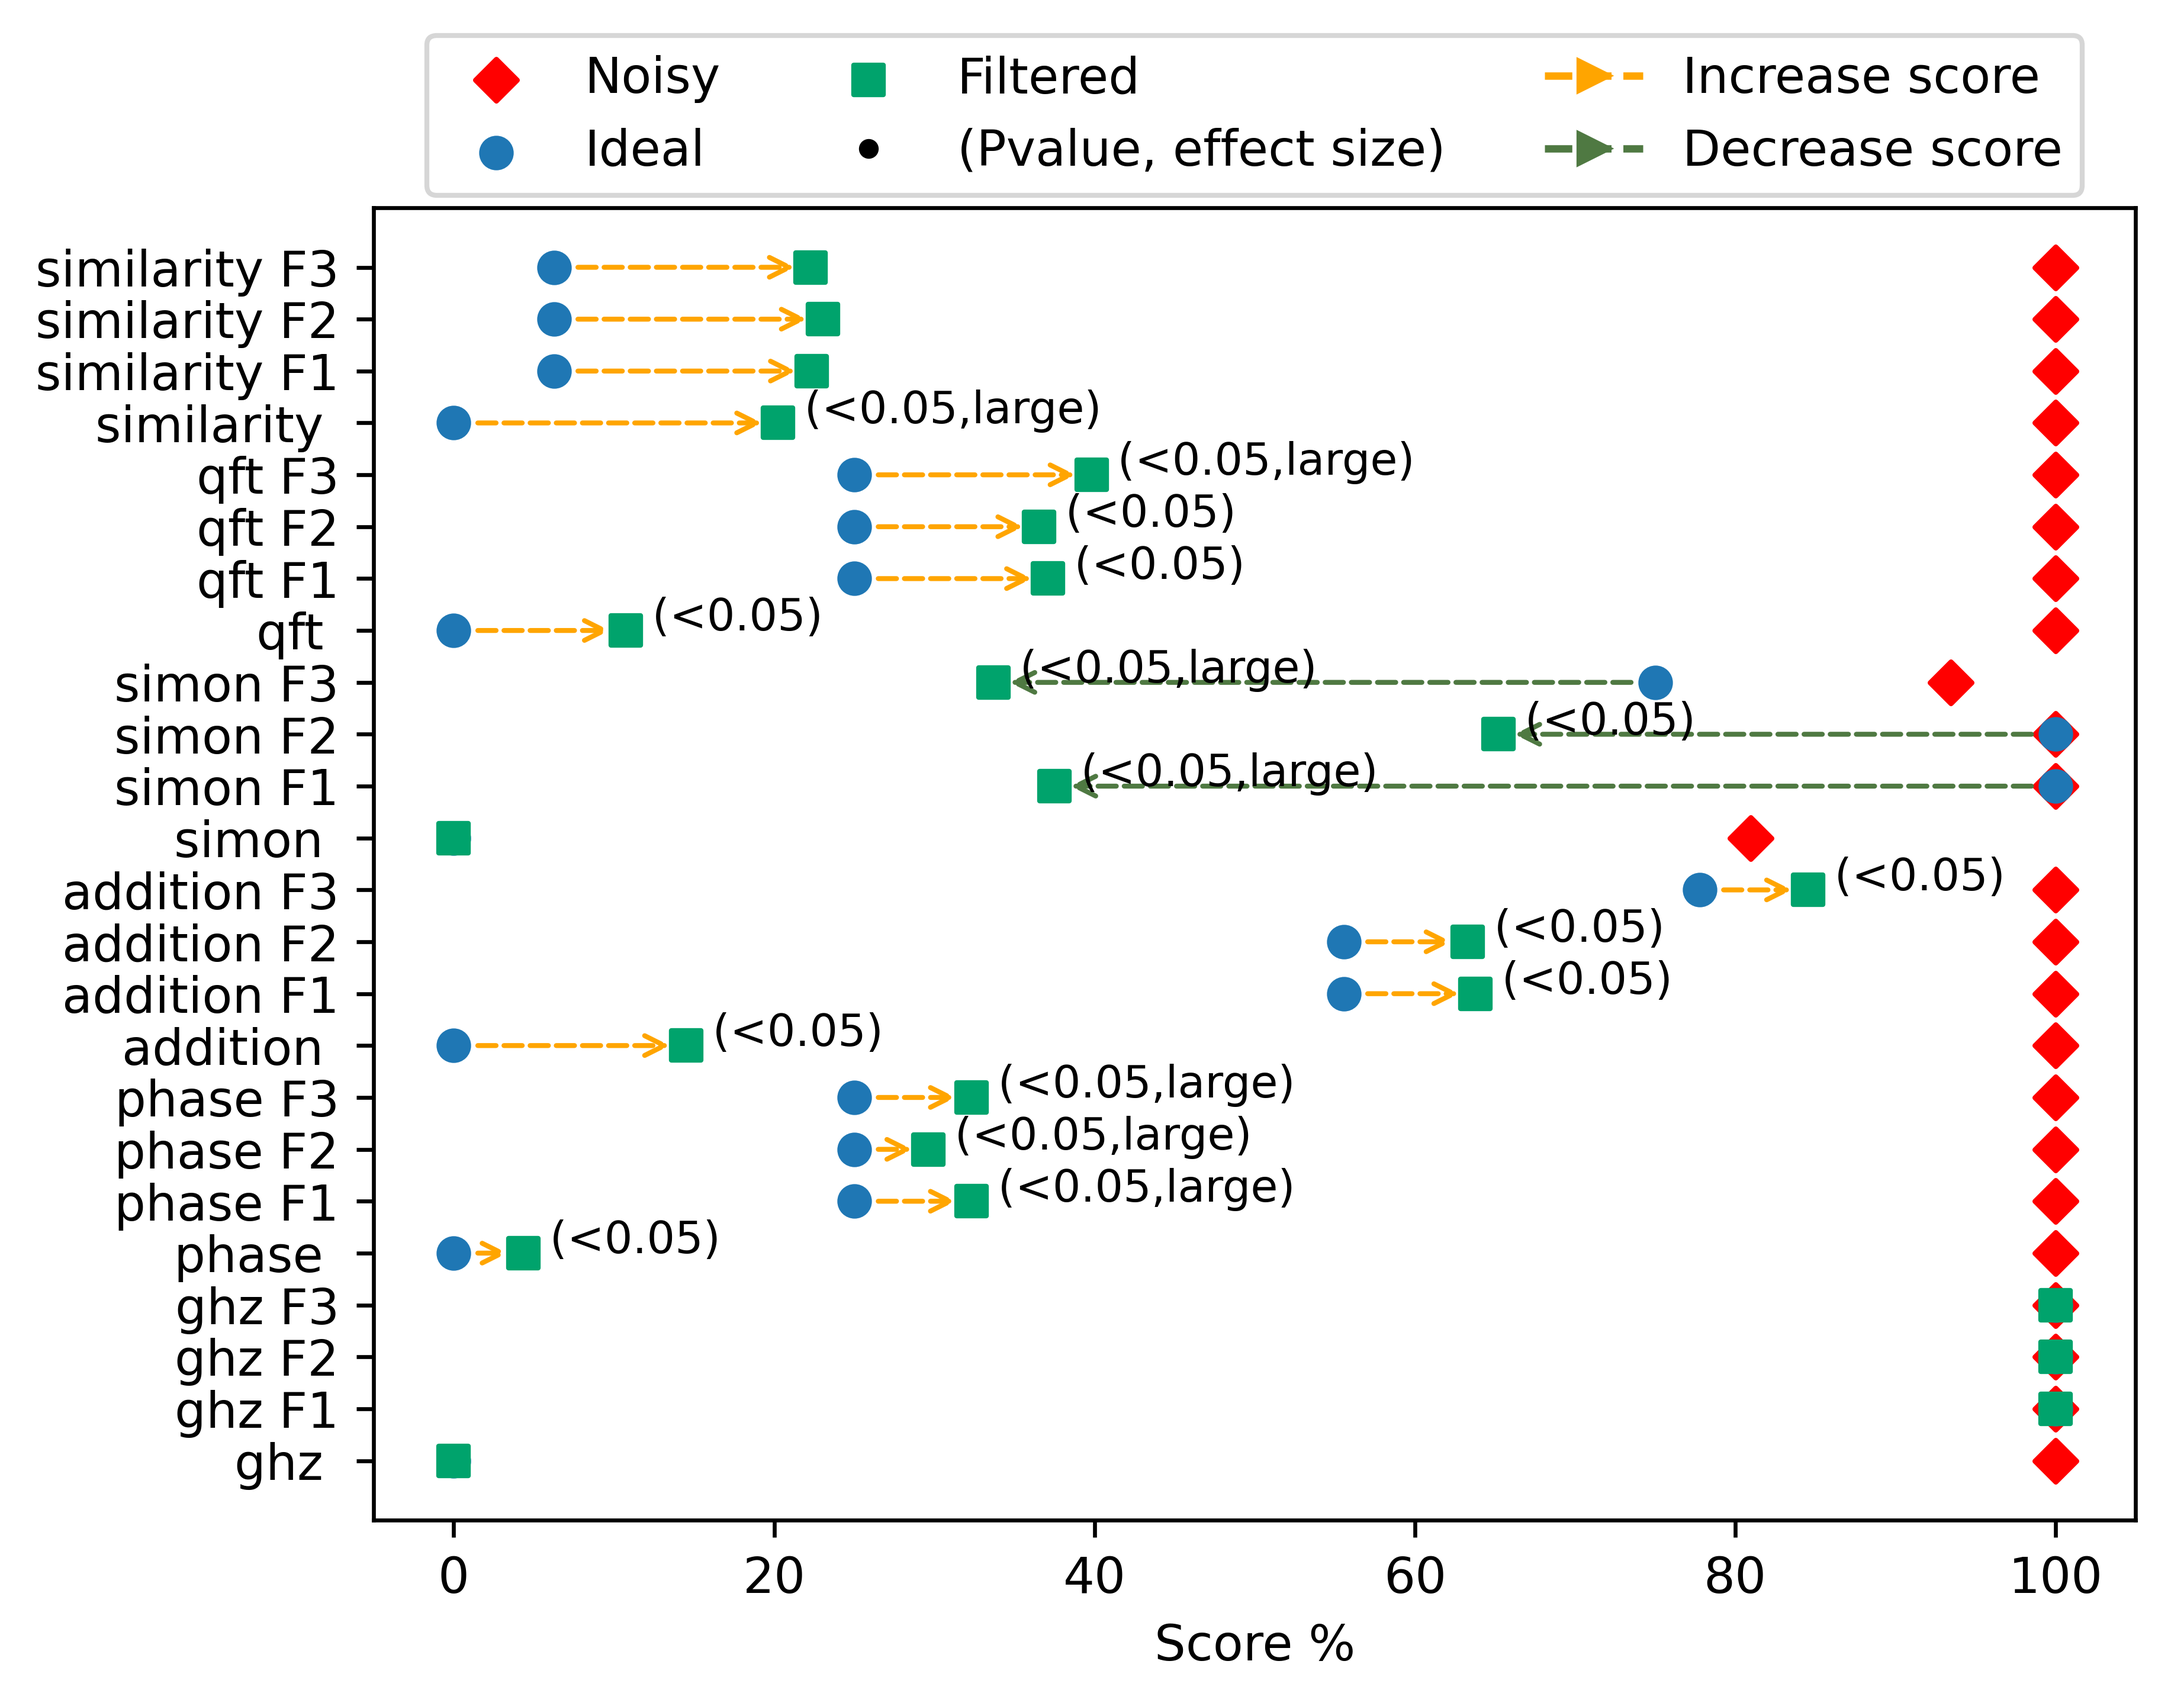
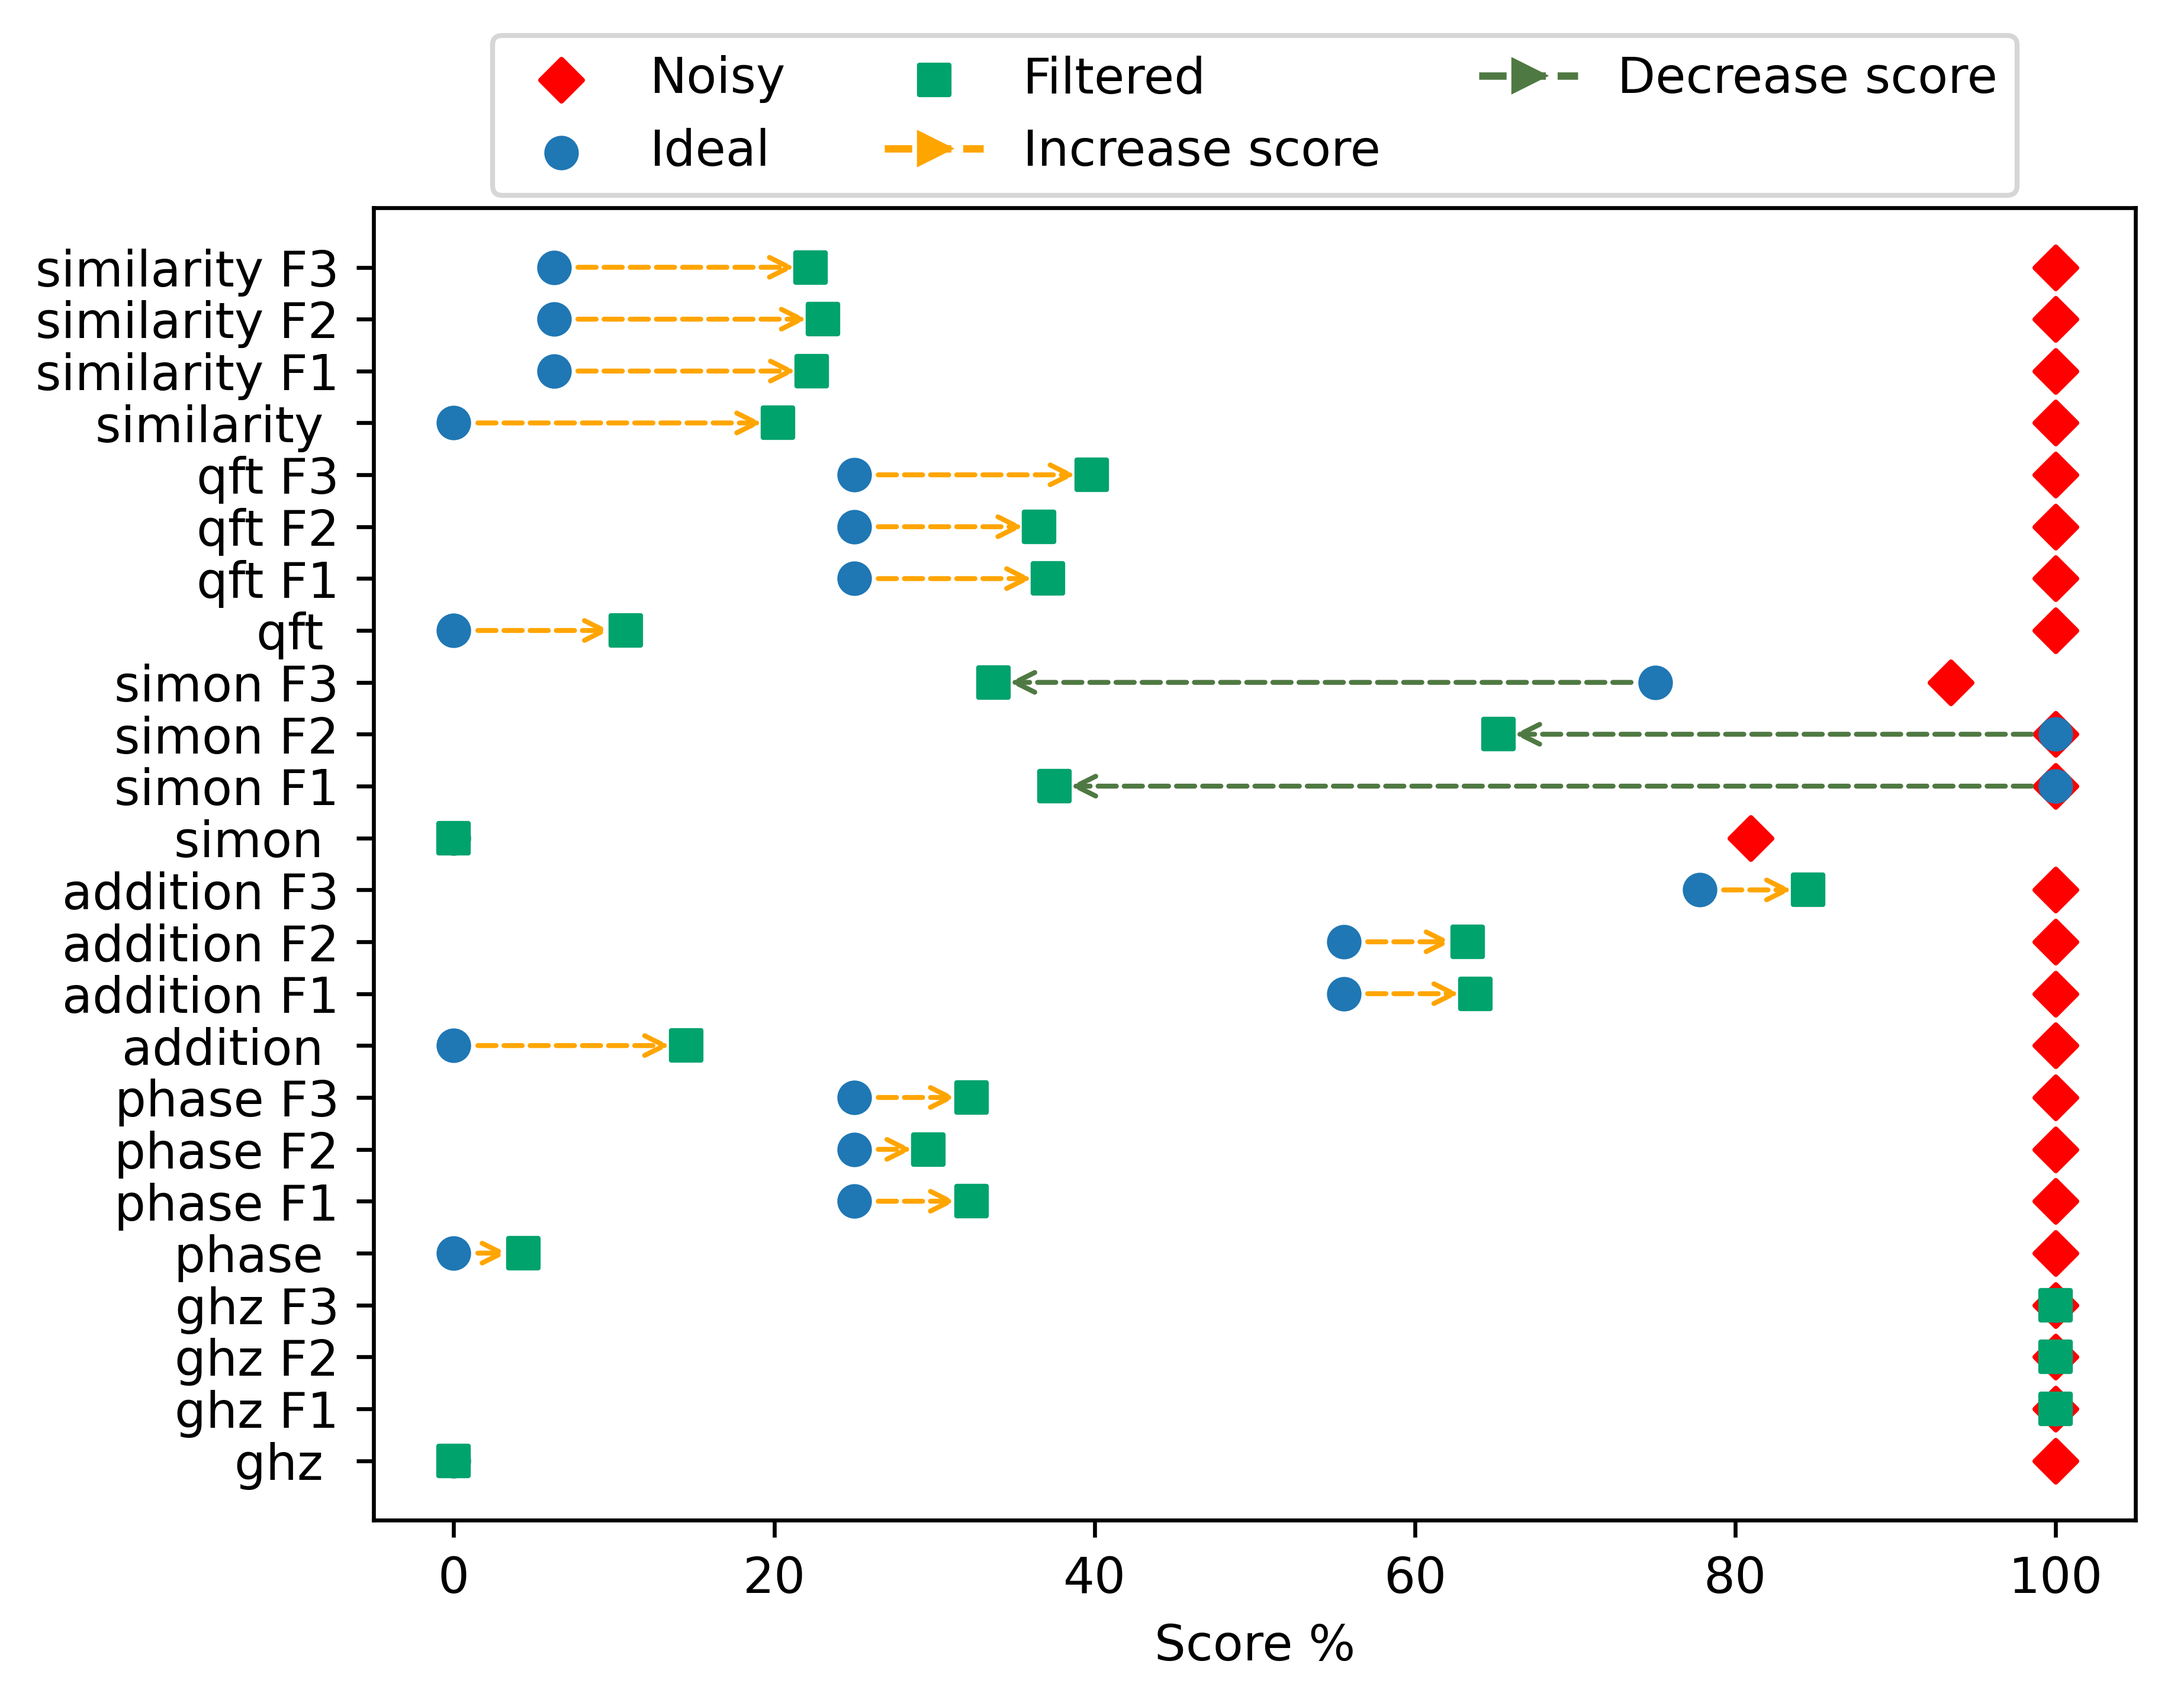
changed

diff --git a/Experiment 1/CalculatingRQ2.py b/Experiment 1/CalculatingRQ2.py
@@ -461,6 +461,10 @@ for program in index.keys():
 
 # In[12]:
 
+stat_data_original.round(2).to_csv("results/RQ2_statistics_original_programs.csv",index=False)
+stat_data_mutant1.round(2).to_csv("results/RQ2_statistics_faulty1_programs.csv",index=False)
+stat_data_mutant2.round(2).to_csv("results/RQ2_statistics_faulty2_programs.csv",index=False)
+stat_data_mutant3.round(2).to_csv("results/RQ2_statistics_faulty3_programs.csv",index=False)
 
 stat_data_original
 
@@ -632,62 +636,62 @@ for program in df["Programs"].unique():
         
         
 
-for program in df["Programs"].unique():
-    ideal = df.loc[(df.Type == "Ideal") & (df.Programs == program)]["Score"].values[0]
-    filtered = df.loc[(df.Type == "Filtered") & (df.Programs == program)]["Score"].values[0]
-    proc = program.split()[0]
-    if "F1" in program:
-        pvalue = stat_data_mutant1.loc[stat_data_mutant1.Program==proc]["Pvalue"].values[0]
-        mag = stat_data_mutant1.loc[stat_data_mutant1.Program==proc]["Mag"].values[0]
-        if pvalue<0.05:
-            if mag=="large":
-                plt.annotate("   ({},large)".format("<0.05"),xy=(ideal+1.5,label[program]),
-                             xytext=(filtered-1,label[program]),xycoords="data",
-                             horizontalalignment='left',fontsize=9)
-            else:
-                plt.annotate("   ({})".format("<0.05"),xy=(ideal+1.5,label[program]),
-                             xytext=(filtered-1,label[program]),xycoords="data",
-                             horizontalalignment='left',fontsize=9)
+# for program in df["Programs"].unique():
+#     ideal = df.loc[(df.Type == "Ideal") & (df.Programs == program)]["Score"].values[0]
+#     filtered = df.loc[(df.Type == "Filtered") & (df.Programs == program)]["Score"].values[0]
+#     proc = program.split()[0]
+#     if "F1" in program:
+#         pvalue = stat_data_mutant1.loc[stat_data_mutant1.Program==proc]["Pvalue"].values[0]
+#         mag = stat_data_mutant1.loc[stat_data_mutant1.Program==proc]["Mag"].values[0]
+#         if pvalue<0.05:
+#             if mag=="large":
+#                 plt.annotate("   ({},large)".format("<0.05"),xy=(ideal+1.5,label[program]),
+#                              xytext=(filtered-1,label[program]),xycoords="data",
+#                              horizontalalignment='left',fontsize=9)
+#             else:
+#                 plt.annotate("   ({})".format("<0.05"),xy=(ideal+1.5,label[program]),
+#                              xytext=(filtered-1,label[program]),xycoords="data",
+#                              horizontalalignment='left',fontsize=9)
                 
-    elif "F2" in program:
-        pvalue = stat_data_mutant2.loc[stat_data_mutant2.Program==proc]["Pvalue"].values[0]
-        mag = stat_data_mutant2.loc[stat_data_mutant2.Program==proc]["Mag"].values[0]
-        if pvalue<0.05:
-            if mag=="large":
-                plt.annotate("   ({},large)".format("<0.05"),xy=(ideal+1.5,label[program]),
-                             xytext=(filtered-1,label[program]),xycoords="data",
-                             horizontalalignment='left',fontsize=9)
-            else:
-                plt.annotate("   ({})".format("<0.05"),xy=(ideal+1.5,label[program]),
-                             xytext=(filtered-1,label[program]),xycoords="data",
-                             horizontalalignment='left',fontsize=9)
-    elif "F3" in program:
-        pvalue = stat_data_mutant3.loc[stat_data_mutant3.Program==proc]["Pvalue"].values[0]
-        mag = stat_data_mutant3.loc[stat_data_mutant3.Program==proc]["Mag"].values[0]
-        if pvalue<0.05:
-            if mag=="large":
-                plt.annotate("   ({},large)".format("<0.05"),xy=(ideal+1.5,label[program]),
-                             xytext=(filtered-1,label[program]),xycoords="data",
-                             horizontalalignment='left',fontsize=9)
-            else:
-                plt.annotate("   ({})".format("<0.05"),xy=(ideal+1.5,label[program]),
-                             xytext=(filtered-1,label[program]),xycoords="data",
-                             horizontalalignment='left',fontsize=9)
-    else:
-        pvalue = stat_data_original.loc[stat_data_original.Program==proc]["Pvalue"].values[0]
-        mag = stat_data_original.loc[stat_data_original.Program==proc]["Mag"].values[0]
-        if pvalue<0.05:
-            if mag=="large":
-                plt.annotate("   ({},large)".format("<0.05"),xy=(ideal+1.5,label[program]),
-                             xytext=(filtered-1,label[program]),xycoords="data",
-                             horizontalalignment='left',fontsize=9)
-            else:
-                plt.annotate("   ({})".format("<0.05"),xy=(ideal+1.5,label[program]),
-                             xytext=(filtered-1,label[program]),xycoords="data",
-                             horizontalalignment='left',fontsize=9)
+#     elif "F2" in program:
+#         pvalue = stat_data_mutant2.loc[stat_data_mutant2.Program==proc]["Pvalue"].values[0]
+#         mag = stat_data_mutant2.loc[stat_data_mutant2.Program==proc]["Mag"].values[0]
+#         if pvalue<0.05:
+#             if mag=="large":
+#                 plt.annotate("   ({},large)".format("<0.05"),xy=(ideal+1.5,label[program]),
+#                              xytext=(filtered-1,label[program]),xycoords="data",
+#                              horizontalalignment='left',fontsize=9)
+#             else:
+#                 plt.annotate("   ({})".format("<0.05"),xy=(ideal+1.5,label[program]),
+#                              xytext=(filtered-1,label[program]),xycoords="data",
+#                              horizontalalignment='left',fontsize=9)
+#     elif "F3" in program:
+#         pvalue = stat_data_mutant3.loc[stat_data_mutant3.Program==proc]["Pvalue"].values[0]
+#         mag = stat_data_mutant3.loc[stat_data_mutant3.Program==proc]["Mag"].values[0]
+#         if pvalue<0.05:
+#             if mag=="large":
+#                 plt.annotate("   ({},large)".format("<0.05"),xy=(ideal+1.5,label[program]),
+#                              xytext=(filtered-1,label[program]),xycoords="data",
+#                              horizontalalignment='left',fontsize=9)
+#             else:
+#                 plt.annotate("   ({})".format("<0.05"),xy=(ideal+1.5,label[program]),
+#                              xytext=(filtered-1,label[program]),xycoords="data",
+#                              horizontalalignment='left',fontsize=9)
+#     else:
+#         pvalue = stat_data_original.loc[stat_data_original.Program==proc]["Pvalue"].values[0]
+#         mag = stat_data_original.loc[stat_data_original.Program==proc]["Mag"].values[0]
+#         if pvalue<0.05:
+#             if mag=="large":
+#                 plt.annotate("   ({},large)".format("<0.05"),xy=(ideal+1.5,label[program]),
+#                              xytext=(filtered-1,label[program]),xycoords="data",
+#                              horizontalalignment='left',fontsize=9)
+#             else:
+#                 plt.annotate("   ({})".format("<0.05"),xy=(ideal+1.5,label[program]),
+#                              xytext=(filtered-1,label[program]),xycoords="data",
+#                              horizontalalignment='left',fontsize=9)
                 
 
-plt.plot([], [], '.',c="black", label="(Pvalue, effect size)")
+# plt.plot([], [], '.',c="black", label="(Pvalue, effect size)")
 plt.plot([], [], '-->',c="orange", label="Increase score")
 plt.plot([], [], '-->',c="#4F7942", label="Decrease score")
 plt.legend(bbox_to_anchor =(0.5, 1.15), ncol = 3,loc=9)

diff --git a/Experiment 2/CalculatingRQ2.py b/Experiment 2/CalculatingRQ2.py
@@ -353,6 +353,10 @@ for program in index.keys():
 
 # In[13]:
 
+stat_data_original.round(2).to_csv("results/RQ2_statistics_original_programs.csv",index=False)
+stat_data_mutant1.round(2).to_csv("results/RQ2_statistics_faulty1_programs.csv",index=False)
+stat_data_mutant2.round(2).to_csv("results/RQ2_statistics_faulty2_programs.csv",index=False)
+stat_data_mutant3.round(2).to_csv("results/RQ2_statistics_faulty3_programs.csv",index=False)
 
 stat_data_original
 
